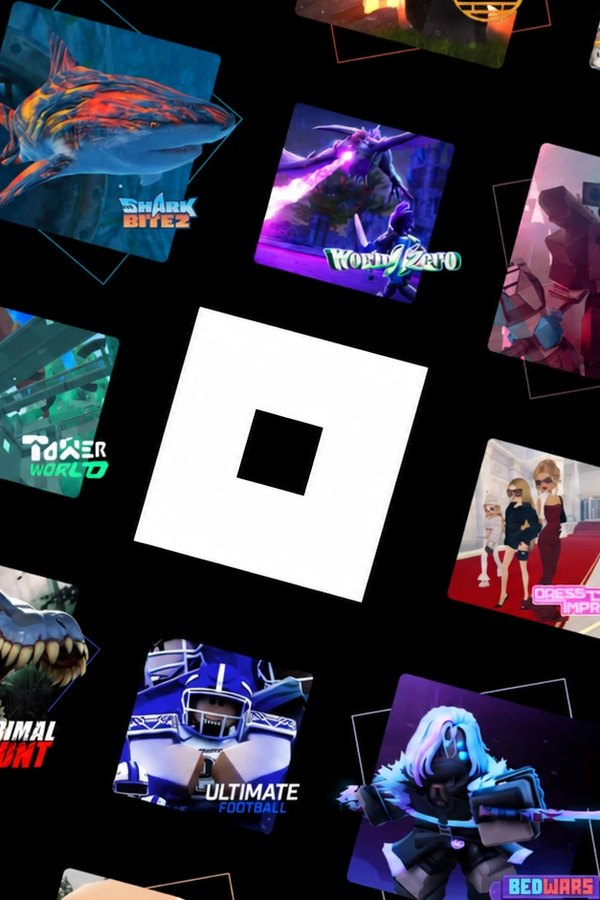
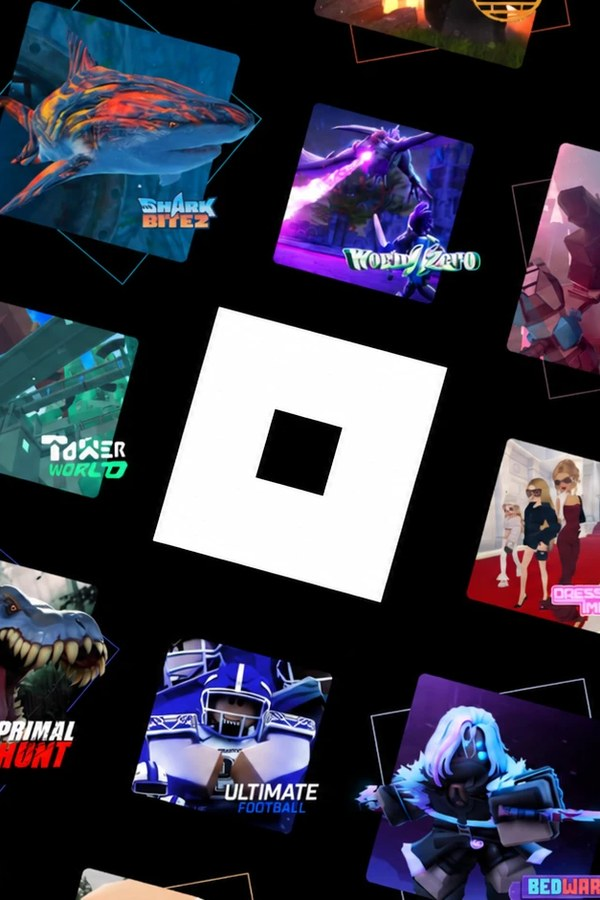
0.53.24 : pochettes Fortnite et Roblox (#278)
* 0.53.24 : pochette, bannière et en-tête de Fortnite (images fournies avec l'appli, comme Roblox)

Claude-Session: https://claude.ai/code/session_01GF8mGr7yTNhrvWDhdfGEFd

* Roblox : bannière 16:9 qui remplit l'en-tête, logos Roblox et Fortnite centrés sur les pochettes

Claude-Session: https://claude.ai/code/session_01GF8mGr7yTNhrvWDhdfGEFd

---------

diff --git a/launcher/src/ui/app.js b/launcher/src/ui/app.js
@@ -1607,6 +1607,9 @@ api.settings?.().then((s) => {
 // ---------- Quoi de neuf (après chaque mise à jour) ----------
 // Nouveautés par version : après une mise à jour, un court message avec l'essentiel (titres seulement)
 const CHANGELOG = {
+  '0.53.24': [
+    ['🎮', 'Fortnite a sa pochette', 'Fortnite a enfin sa vraie pochette et sa bannière. Roblox : bannière qui remplit tout l’en-tête et logo bien centré sur la pochette.', ['.side nav button:nth-child(2)', 'wait900']],
+  ],
   '0.53.23': [
     ['🛒', 'Upgrade complet', 'Carte graphique (NVIDIA, AMD ou Intel), processeur et carte mère, mémoire et stockage : seulement ce qui est compatible avec ton PC, l’alimentation à prévoir et le meilleur rapport qualité / prix. Choisis tes jeux (même pas installés) pour voir tes FPS avant / après.', ['[data-view=pc]', 'wait600', '[data-pctab=upgrade]', 'wait1200']],
     ['🧱', 'Roblox a sa pochette', 'Roblox a enfin sa pochette et sa bannière dans la bibliothèque.'],
@@ -4688,7 +4691,7 @@ function demoApi() {
     cleanRun: async () => ({ ok: true, freed: 4.9e9 }),
     deals: async () => [{ appid: '1', name: 'Jeu en promo', pct: 75, price: '4,99€', before: '19,99€', image: img('h1.jpg') }],
     premiumGet: async () => ({ ia: false, opti: false, logged: true, code: 'AMI-7KQ2PX', trialUsed: false }), premiumBuy: async () => ({ ok: true }), premiumTrial: async () => ({ ok: true }), premiumRedeem: async () => ({ ok: true, pack: 'pack' }),
-    version: async () => '0.53.23',
+    version: async () => '0.53.24',
     storeSearch: async () => [{ name: 'Fortnite', src: 'epic', img: null, url: 'https://store.epicgames.com/fr/p/fortnite' }],
     scanDrives: async () => [{ letter: 'C', size: 1e12, used: 6.2e11, system: true }, { letter: 'D', size: 2e12, used: 9e11, system: false }],
     freeGames: async () => [{ name: 'Jeu gratuit', slug: 'jeu', image: img('h2.jpg'), now: true, until: Date.now() + 5 * 86_400_000 }, { name: 'Prochain jeu', slug: 'prochain', image: img('h1.jpg'), now: false, from: Date.now() + 5 * 86_400_000 }], openFree: async () => {},

diff --git a/launcher/src/main.js b/launcher/src/main.js
@@ -325,6 +325,8 @@ async function scan() {
   const notDup = (i) => !(i.installDir && storeDirs.has(String(i.installDir).toLowerCase().replace(/[\\/]+$/, '')));
   raw = [...found.filter((i) => !(fivem.item && /^fivem$/i.test(i.name ?? '')) && notDup(i)), ...stores, ...xbox, ...(fivem.item ? [fivem.item] : []), ...Object.values(store.data.custom ?? {}).map(customItem)];
   if (process.env.LAUNCHER_DEMO) raw = demoItems();
+  // Images officielles fournies avec l'appli pour les jeux sans fiche correcte (pochette, bannière, en-tête)
+  for (const i of raw) { const k = { fortnite: 'fortnite', roblox: 'roblox' }[String(i.name ?? '').toLowerCase()]; if (k) i.art = { ...i.art, cover: `art/${k}-cover.jpg`, hero: `art/${k}-hero.jpg`, header: `art/${k}-header.jpg` }; }
   await fillSteamNames(raw).catch(() => {});
   // Un jeu a changé de version depuis le dernier scan : badge dans la cloche + annonce dans #maj-des-jeux sur Discord
   const vers = (store.data.gameVersions ??= {}); let verChanged = false;
